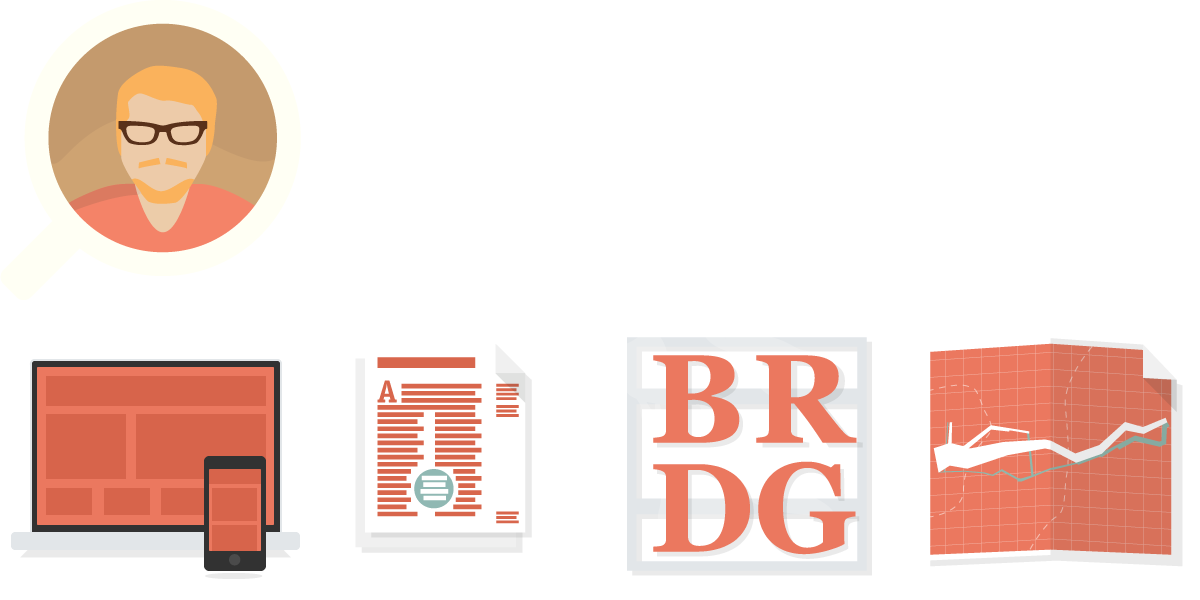
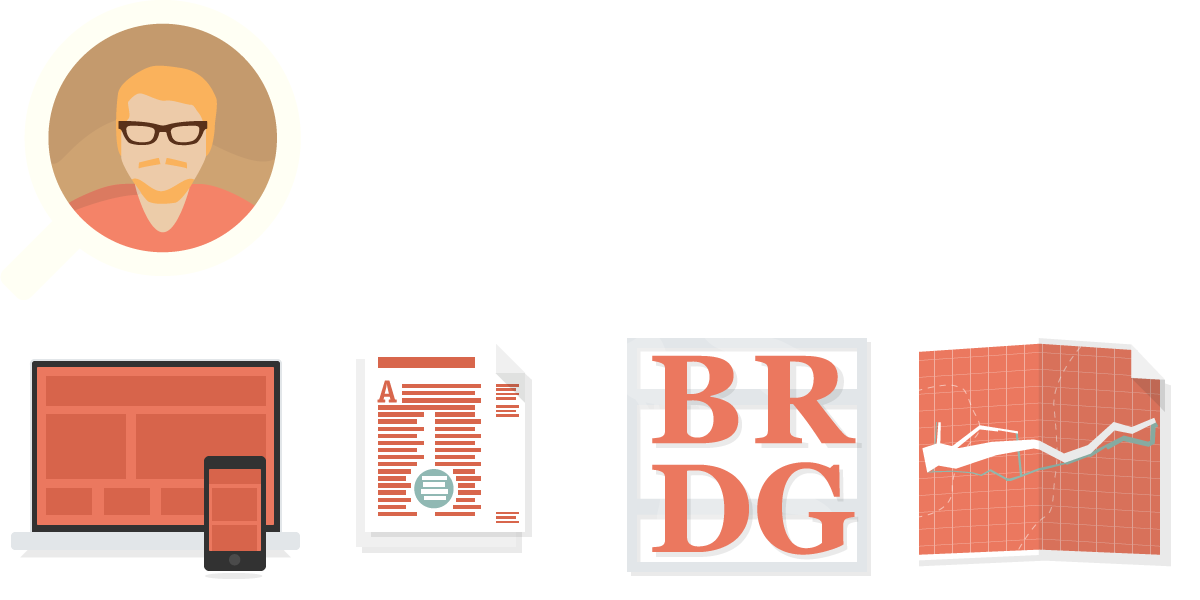
adding support for retina illustration sprite in image & reworking skills design

diff --git a/libs/css/menu-0.0.1.css b/libs/css/menu-0.0.1.css
@@ -145,38 +145,28 @@
 	-webkit-transform-style: preserve-3d;
 	transform: translate3d(0px, 0px, 0px);
 	-webkit-transform: translate3d(0px, 0px, 0px);
-	transition: transform .6s ease;   
+	transition: transform .4s ease;   
 	-webkit-transition: -webkit-transform .4s ease;
 }
 .menu-active #body{
 	transform: translate3d(-250px, 0px, 0px);
 	-webkit-transform: translate3d(-250px, 0px, 0px);
-	transition: transform .6s ease;   
+	transition: transform .4s ease;   
 	-webkit-transition: -webkit-transform .4s ease;
 }
-.mobile.menu-active #menu_icon{
+/*.mobile.menu-active #menu_icon{
 	margin-right: 80%;
 	transition: margin .4s ease;   
 	-webkit-transition: margin .4s ease;
 	-moz-transition: margin .4s ease;
 	-o-transition: margin .4s ease;
 	-ms-transition: margin .4s ease;
-}
+}*/
 .mobile.menu-active #body{
-	margin-left: -80%;
-	transition: margin .4s ease;   
-	-webkit-transition: margin .4s ease;
-	-moz-transition: margin .4s ease;
-	-o-transition: margin .4s ease;
-	-ms-transition: margin .4s ease;
-}
-.mobile #body{
-	margin-left: 0%;
-	transition: margin .4s ease;   
-	-webkit-transition: margin .4s ease;
-	-moz-transition: margin .4s ease;
-	-o-transition: margin .4s ease;
-	-ms-transition: margin .4s ease;
+	transform: translate3d(-80%, 0px, 0px);
+	-webkit-transform: translate3d(-80%, 0px, 0px);
+	transition: transform .4s ease;   
+	-webkit-transition: -webkit-transform .4s ease;
 }
 /*------------------*/
 /* follow nav */

diff --git a/libs/css/base-0.0.1.css b/libs/css/base-0.0.1.css
@@ -5,7 +5,7 @@ html, body{
 	font-weight: normal;
 	color: rgb(75,75,75);
 }
-.wf-active html, .wf-active body{ 
+html.wf-active, .wf-active body{ 
 	font-family: "Source Sans Pro"; 
 	font-weight: 400;
 }
@@ -78,6 +78,10 @@ html.menu-active, body.mobile.menu-active{
 .light-blue{ background: rgb(165,205,200); }
 .font-light-blue{ color: rgb(165,205,200); }
 .light-blue-pseudo:before, .light-blue-pseudo:after{ background: rgb(165,205,200); }
+/* green blue */
+.green-blue{ background: rgb(165,205,200); }
+.font-light-blue{ color: rgb(165,205,200); }
+.light-blue-pseudo:before, .light-blue-pseudo:after{ background: rgb(165,205,200); }
 /* blue */
 .blue{ background: rgb(70,155,180); }
 .font-blue{ color: rgb(70,155,180); }
@@ -92,9 +96,10 @@ html.menu-active, body.mobile.menu-active{
 .pink-pseudo:before, .pink-pseudo:after{ background: rgb(235,135,175);}
 /*------------------*/
 /* typography */
+h1, h2, h3, h4, h5{ font-weight: 600; }
 h1, .giant-headline{ font-size: 200px; line-height: 100%; }
 h2, .big-headline{ font-size: 100px; line-height: 120%; }
-h3, h4, .medium-headline{ font-size: 48px; line-height: 120%; }
+h3, h4, .medium-headline{ font-size: 48px; line-height: 120%; margin-bottom: 15px; }
 .small-headline{ font-size: 24px; line-height: 100%; margin-bottom: 10px; }
 .copy{ font-size: 18px; text-align: left; }
 .copy p{ margin: 0 0 10px 0; width: 100%; max-width: 550px; line-height: 120%; }

diff --git a/libs/css/layout-0.0.1.css b/libs/css/layout-0.0.1.css
@@ -46,7 +46,7 @@ section{
 	margin-left: -1px;
 	overflow: hidden;
 }
-.vertical-center .section-content{
+.vertical-center .centered{
 	vertical-align: middle;
 }
 .circle-big{
@@ -178,6 +178,7 @@ section{
 }
 .skills .skill-content .copy{
 	margin-right: 80px;
+	opacity: 0.85;
 }
 /* ---------------------------- */
 /* Current project */
@@ -616,13 +617,13 @@ section{
 	-ms-transform: rotate(45deg); /* IE 9 */
 	-webkit-transform: rotate(45deg);
 }
-.big-arrow.left:before{
+.big-arrow.left:before, .medium-arrow.left:before{
 	top: 0;
 	transform: rotate(45deg);
 	-ms-transform: rotate(45deg); /* IE 9 */
 	-webkit-transform: rotate(45deg);
 }
-.big-arrow.left:after{
+.big-arrow.left:after, .medium-arrow.left:after{
 	bottom: 0;
 	transform: rotate(-45deg);
 	-ms-transform: rotate(-45deg); /* IE 9 */

diff --git a/libs/js/javascript.js b/libs/js/javascript.js
@@ -94,7 +94,10 @@ $(function(){
 	$('.img-optimized').each(function(){
 		var _this = $(this);
 		_this.addClass('loading').attr('src',_this.data('src-x'+pixelRatio)).load(function(){
-			_this.width(_this.width()/pixelRatio).addClass('loaded').removeClass('loading');
+			var width = _this.width()/pixelRatio;
+			var height = _this.height()/pixelRatio;
+			alert(_this.width());
+			_this.css({'width':width,'height':height}).addClass('loaded').removeClass('loading');
 		});
 	});
 	// -----------------------

diff --git a/libs/css/icons-0.0.1.css b/libs/css/icons-0.0.1.css
@@ -37,8 +37,6 @@
 	padding: 0;
 	top: 0;
 	left: 0;
-	width: 1200px;
-	height: 600px;
 }
 .veare-illustrations{
 	display: inline-block;

diff --git a/application/views/home/block.php b/application/views/home/block.php
@@ -1,5 +1,5 @@
 <section class="bold font-light-orange vertical-center no-flicker">
-	<div class="section-content fixed">
+	<div class="section-content centered fixed">
 		<span class="hello giant-headline" style="display: inline-block;">Hello,</span><br />
 		<h2 class="big-headline" style="display: inline-block;">I design interfaces</h2><br />
 		<h1 class="veare-studio medium-headline" style="display: inline-block; float: right;">&amp; veare is my design studio.</h1><br />
@@ -7,18 +7,18 @@
 </section>
 
 <section class="turquoise font-white bold vertical-center no-flicker">
-	<div class="section-content">
+	<div class="section-content centered">
 		<figure class="image fixed coffee veare-illustrations">
-			<img src="<?=base_url()?>layout/veare-illustrations@2x.png" alt="lukas oppermann coffee" />
+			<img class="img-optimized" data-src-x2="<?=base_url(TRUE)?>layout/veare-illustrations@2x.png" data-src-x1="<?=base_url(TRUE)?>layout/veare-illustrations.png" alt="lukas oppermann designer at veare design studio" />
 		</figure>
-		<h2 class="bold big-headline align-left">I think first, design second</h2>
+		<h2 class="big-headline align-left">I think first, design second</h2>
 		<span class="medium-headline float-right align-left">&amp; drink quite some coffee while I do that.</span>
 	</div>
 </section>
 
 <section class="about-lukas-oppermann bold light-gray vertical-center no-flicker">
-	<div class="section-content fixed">
-		<h2 class="font-orange width-100">Current project</h2>
+	<div class="section-content centered fixed">
+		<h3 class="font-orange big-headline width-100">I recently worked on</h3>
 		<div class="columns">
 			<div class="column column-four-three">
 				<div class="browser-frame dark">
@@ -49,15 +49,35 @@
 </section>
 
 <section class="skills light-blue font-white vertical-center no-flicker">
-	<div class="section-content fixed">
+	<div class="section-content centered fixed">
+		<h2 class="font-white width-100">This is what I do </h2>
 		<div class="columns">
-			<div class="column column-half">
-				<figure class="image fixed interface veare-illustrations hover-circle">
-					<img src="<?=base_url()?>layout/veare-illustrations@2x.png" alt="interface design" />
+			<div class="column column-five">
+				<figure class="image fixed interface veare-illustrations hover-circle centered">
+					<img class="img-optimized" data-src-x2="<?=base_url(TRUE)?>layout/veare-illustrations@2x.png" data-src-x1="<?=base_url(TRUE)?>layout/veare-illustrations.png" alt="interface design, web design, iOS design, responsive design" />
 				</figure>
-				<div class="skill-content">
+				<div class="skill-content centered">
+					<div class="circle-copy copy font-black opacity float-left">
+					<h2 class="bold font-white medium-headline">Interface design</h2>
+					<p>visionary design means to define a vision before the design process is started. This vision is an overall business &amp; strategy vision which you will keep for the coming years as a goal to achieve.
+					</p>
+					<p>The design we develop will be one step
+						towards fulfilling this vision.
+					</p>
+				</div>
+					<a class="more vcenter float-left" style="position: absolute; height: 100%; width: 60px; top: 0; right: 0;">
+						<div class="medium-arrow black-pseudo opacity-25"></div>
+					</a>
+				</div>
+			</div>
+			
+			<div class="column column-five">
+				<figure class="image fixed print veare-illustrations hover-circle centered">
+					<img class="img-optimized" data-src-x2="<?=base_url(TRUE)?>layout/veare-illustrations@2x.png" data-src-x1="<?=base_url(TRUE)?>layout/veare-illustrations.png" alt="print design, magazines, posters, graphic design" />
+				</figure>
+				<div class="skill-content centered">
 					<div class="circle-copy copy font-black float-left">
-					<h2 class="bold font-white medium-headline">interface design</h2>
+					<h2 class="bold font-white medium-headline">Print design</h2>
 					<p><strong>visionary design</strong> means to define a vision before the design process is started. This vision is an overall <strong>business &amp; strategy vision</strong> which you will keep for the coming years as a goal to achieve.
 					</p>
 					<p>The design we develop will be one step
@@ -69,13 +89,14 @@
 					</a>
 				</div>
 			</div>
-			<div class="column column-half">
-				<figure class="image fixed print veare-illustrations hover-circle">
-					<img src="<?=base_url()?>layout/veare-illustrations@2x.png" alt="interface design" />
+
+			<div class="column column-five">
+				<figure class="image fixed infographics veare-illustrations hover-circle centered">
+					<img class="img-optimized" data-src-x2="<?=base_url(TRUE)?>layout/veare-illustrations@2x.png" data-src-x1="<?=base_url(TRUE)?>layout/veare-illustrations.png" alt="Infographics, information design, information architecture" />
 				</figure>
-				<div class="skill-content">
+				<div class="skill-content centered">
 					<div class="circle-copy copy font-black float-left">
-					<h2 class="bold font-white medium-headline">print design</h2>
+					<h2 class="bold font-white medium-headline">Infographics</h2>
 					<p><strong>visionary design</strong> means to define a vision before the design process is started. This vision is an overall <strong>business &amp; strategy vision</strong> which you will keep for the coming years as a goal to achieve.
 					</p>
 					<p>The design we develop will be one step
@@ -87,15 +108,14 @@
 					</a>
 				</div>
 			</div>
-		</div>
-		<div class="columns">
-			<div class="column column-half">
-				<figure class="image fixed branding veare-illustrations hover-circle">
-					<img src="<?=base_url()?>layout/veare-illustrations@2x.png" alt="interface design" />
+
+			<div class="column column-five">
+				<figure class="image fixed branding veare-illustrations hover-circle centered">
+					<img class="img-optimized" data-src-x2="<?=base_url(TRUE)?>layout/veare-illustrations@2x.png" data-src-x1="<?=base_url(TRUE)?>layout/veare-illustrations.png" alt="corporate design, modern branding, logo design, corporate identity" />
 				</figure>
-				<div class="skill-content">
+				<div class="skill-content centered">
 					<div class="circle-copy copy font-black float-left">
-					<h2 class="bold font-white medium-headline">modern branding</h2>
+					<h2 class="bold font-white medium-headline">Modern branding</h2>
 					<p><strong>visionary design</strong> means to define a vision before the design process is started. This vision is an overall <strong>business &amp; strategy vision</strong> which you will keep for the coming years as a goal to achieve.
 					</p>
 					<p>The design we develop will be one step
@@ -107,35 +127,18 @@
 					</a>
 				</div>	
 			</div>
-			<div class="column column-half">
-				<figure class="image fixed infographics veare-illustrations hover-circle">
-					<img src="<?=base_url()?>layout/veare-illustrations@2x.png" alt="interface design" />
-				</figure>
-				<div class="skill-content">
-					<div class="circle-copy copy font-black float-left">
-					<h2 class="bold font-white medium-headline">infographics</h2>
-					<p><strong>visionary design</strong> means to define a vision before the design process is started. This vision is an overall <strong>business &amp; strategy vision</strong> which you will keep for the coming years as a goal to achieve.
-					</p>
-					<p>The design we develop will be one step
-						towards fulfilling this vision.
-					</p>
-				</div>
-					<a class="more vcenter float-left" style="position: absolute; height: 100%; width: 60px; top: 0; right: 0;">
-						<div class="medium-arrow black-pseudo opacity-25"></div>
-					</a>
-				</div>
-			</div>
+			
 		</div>
 	</div>
 </section> 
 
 <section class="about-veare yellow font-white vertical-center no-flicker">
-	<div class="section-content fixed">
+	<div class="section-content centered fixed">
 		<div class="columns plus">
 			<div class="column tablet-half column-two">
 				<div class="circle-big light-blue">
 					<figure class="image eye veare-illustrations">
-						<img src="<?=base_url()?>layout/veare-illustrations@2x.png" alt="lukas oppermann coffee" />
+					<img class="img-optimized" data-src-x2="<?=base_url(TRUE)?>layout/veare-illustrations@2x.png" data-src-x1="<?=base_url(TRUE)?>layout/veare-illustrations.png" alt="veare visionary design, design & content strategy" />
 					</figure>
 				</div>
 				<div class="circle-copy copy font-black">
@@ -150,7 +153,7 @@
 			<div class="column tablet-half column-two">
 				<div class="circle-big light-blue">
 					<figure class="image brain veare-illustrations">
-						<img src="<?=base_url()?>layout/veare-illustrations@2x.png" alt="lukas oppermann coffee" />
+					<img class="img-optimized" data-src-x2="<?=base_url(TRUE)?>layout/veare-illustrations@2x.png" data-src-x1="<?=base_url(TRUE)?>layout/veare-illustrations.png" alt="intelligent design, usability, user experience, information architecture, storytelling" />
 					</figure>
 				</div>
 				<div class="circle-copy copy font-black"><h3 class="bold circle-headline font-white">intelligent</h3>
@@ -166,7 +169,7 @@
 </section>
 
 <section class="light-red font-white vertical-center no-flicker">
-	<div class="section-content fixed">
+	<div class="section-content centered fixed">
 		<h4 class="bold big-headline">I write about stuff …</h4>
 			<a href="#" class="column blog-link">
 				<div class="big-arrow left shadow white-pseudo"><div class="shadow black-pseudo"></div></div>
